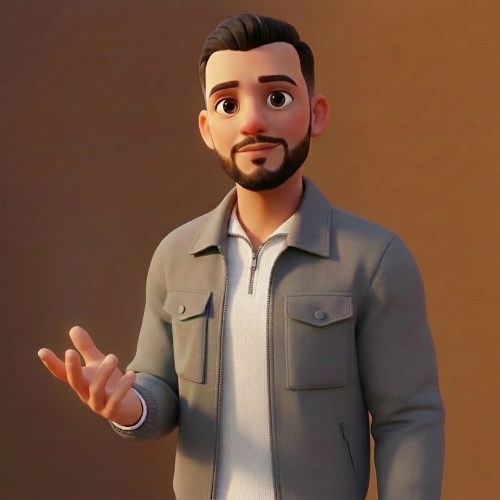
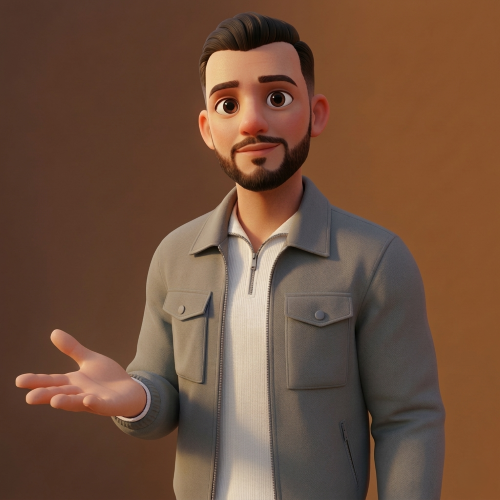
refactor: change avatare picture

diff --git a/lib/sections/about_section.dart b/lib/sections/about_section.dart
@@ -225,7 +225,7 @@ class _AboutImageState extends State<_AboutImage>
                   children: [
                     Positioned.fill(
                       child: Image.asset(
-                        'lib/assets/photos/developper/avatar2.png',
+                        'lib/assets/photos/developper/avatar.png',
                         fit: BoxFit.cover,
                       ),
                     ),
